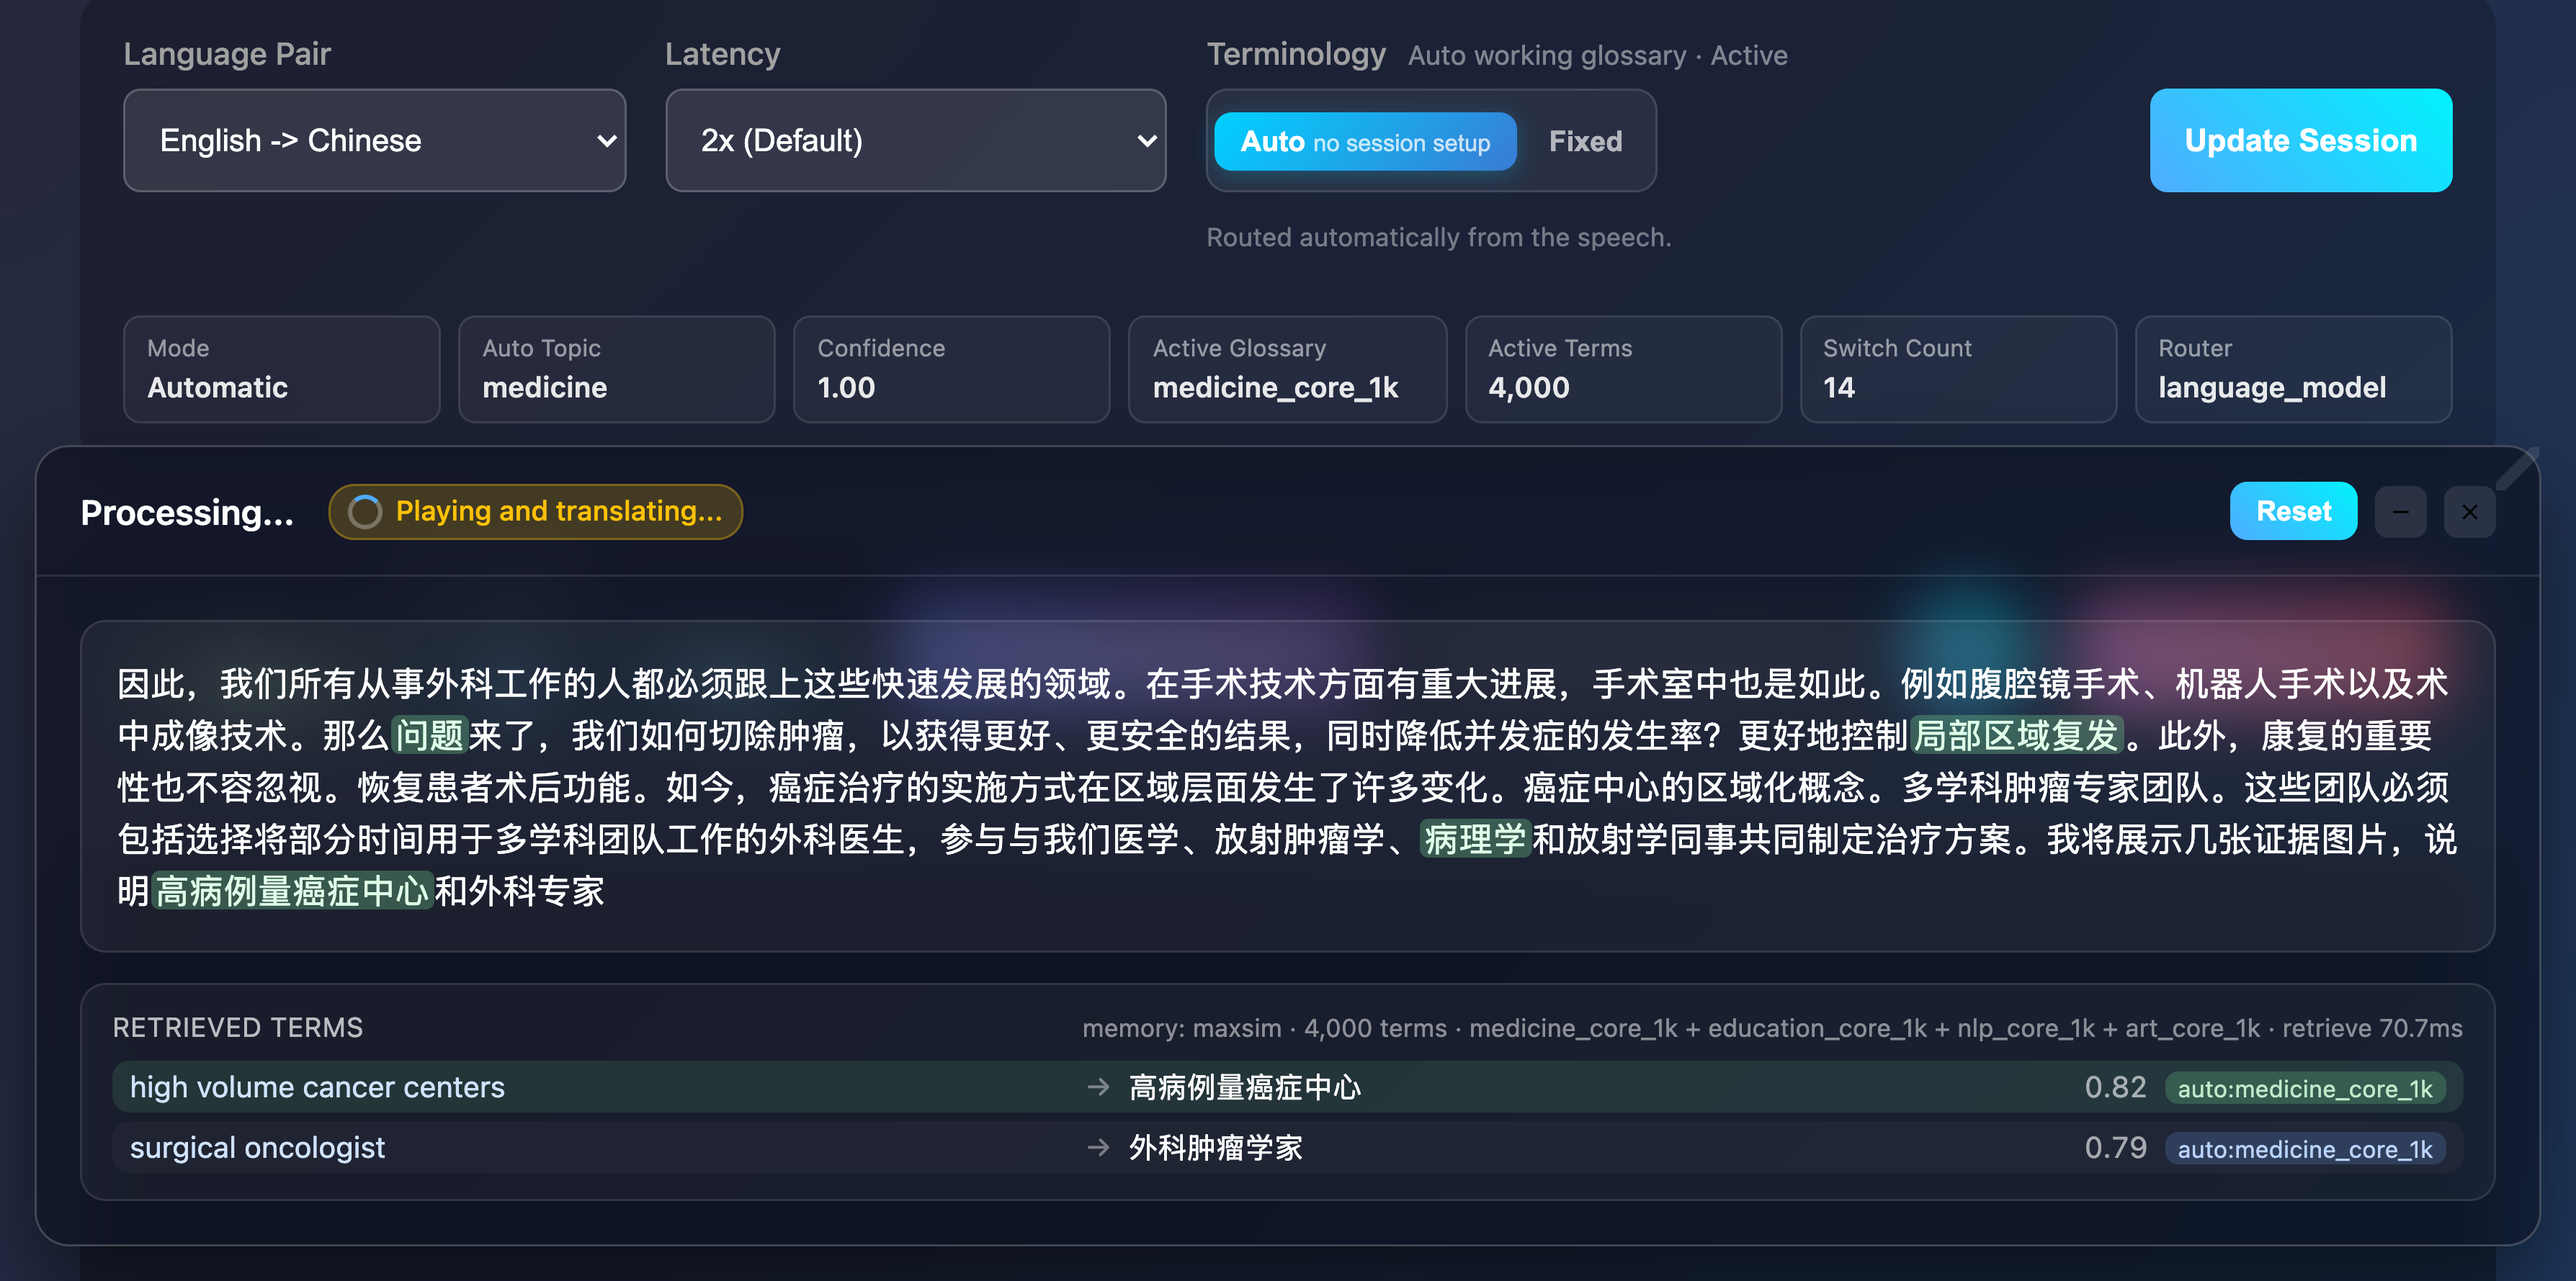
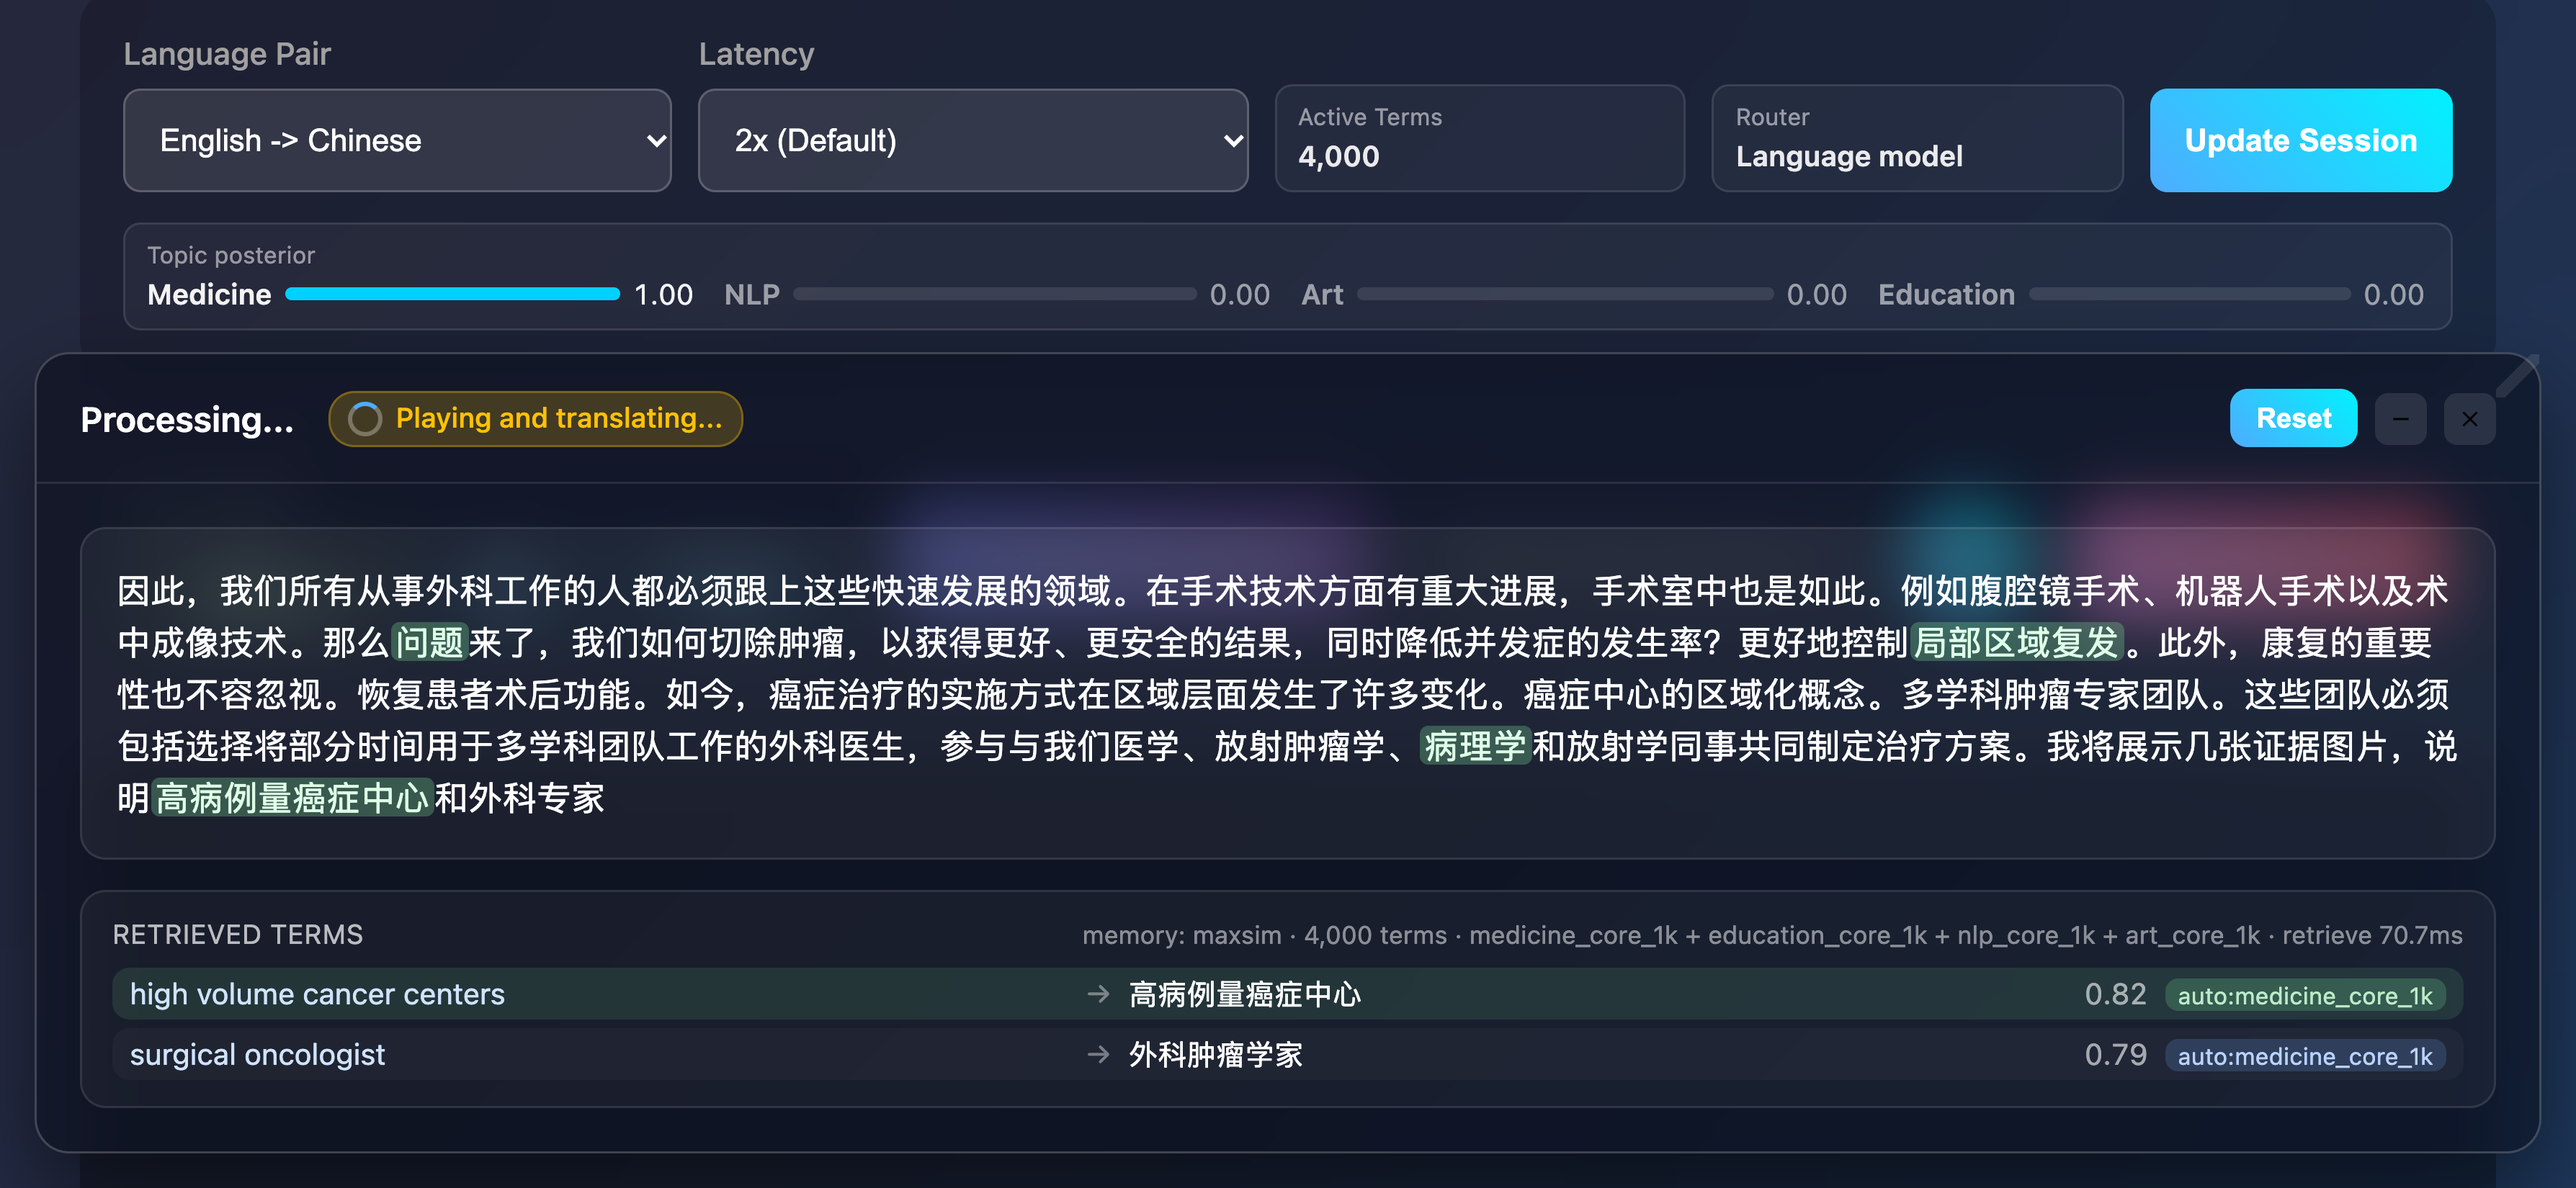
Show the active slices with their posterior in the interface figure
Figure 2 is re-rendered from the new status row, which lists the four
active slices with their posterior replayed on the recorded
translations; Section 5 follows the automatic-only interface.
latex/make_arxiv.sh builds a comment-free arXiv package with the .bbl
and checks its page count.

diff --git a/latex/sections/5_demo_interface.tex b/latex/sections/5_demo_interface.tex
@@ -10,8 +10,8 @@ selector.
 
 \paragraph{Walkthrough.}
 A session follows topic changes with no manual control. Partial translations
-appear immediately; once context accumulates, the status row at the top of the
-interface names the slice with the highest posterior probability, and the pairs
+appear immediately; once context accumulates, the status row at the top of the interface lists the active slices with their
+posterior probabilities, and the pairs
 retrieved for each output appear in the evidence panel. After a topic change, outgoing and
 incoming slices briefly coexist in the working set.
 
@@ -19,9 +19,9 @@ incoming slices briefly coexist in the working set.
   \centering
   \includegraphics[width=0.64\textwidth]{ui_evidence_panel.png}
   \caption{The English-to-Chinese interface replaying the ACL-ESO stream during an oncology lecture, about 19 minutes into
-  the stream. The status row shows the medicine
-  slice on top of the router's posterior and 4,000 searchable terms; retrieved
-  terms are highlighted in the translation, and the bottom panel lists the
+  the stream. The status row lists the four active slices with their posterior probabilities,
+  replayed on the recorded translations; retrieved terms are highlighted in the
+  translation, and the bottom panel lists the
   latest retrieved pairs with scores and source slices.}
   \label{fig:ui}
 \end{figure*}
@@ -30,8 +30,8 @@ incoming slices briefly coexist in the working set.
 Highlighting and an evidence panel make terminology behavior transparent. As
 Figure~\ref{fig:ui} shows, the
 interface highlights retrieved terms inside the translation and lists their
-source--target mappings; the status row shows the top slice, its posterior
-probability, and the active term count, and the evidence-panel header names the active slices and
+source--target mappings; the status row lists the active slices with their posterior probabilities
+next to the active term count, and the evidence-panel header names the active slices and
 the retrieval latency. A viewer can thus see whether a mistranslated term was missed by retrieval,
 came from an irrelevant slice, or was retrieved but ignored by the decoder.
 
@@ -39,8 +39,7 @@ came from an irrelevant slice, or was retrieved but ignored by the decoder.
 Adding a topic takes one glossary file and no restart: registration validates
 the pairs, builds the index, and writes the manifest entry, and an LLM can
 write the prototype from the glossary, as Appendix~\ref{app:router} evaluates.
-Running sessions keep their catalog snapshot, and fixed-glossary presets remain
-available for expert users.
+Running sessions keep their catalog snapshot.
 
 \paragraph{Availability.}
 The MIT-licensed implementation, a one-command launcher, and a screencast are

diff --git a/docs/decisions.md b/docs/decisions.md
@@ -28,3 +28,4 @@
 - 2026-11-20 PT｜路由打分改为后台进行｜按 luojiaxuan 的选择修掉 LLM 路由的并发瓶颈：实验仓库 `dce1e90` 起，块的检索只读最新的路由分数，不再等打分；一个后台 worker 把所有到期会话合成一批打分，新译文一到就唤醒它，正序与倒序选项放进同一批前向（分数不变）｜同步打分时三张 A6000 上 16 路并发的 LLM 路由块延迟中位数 3.38 秒，80% 的块超过 1.92 秒，相似度路由 0.81 秒；实时流里下一块要约 1.4 秒后才到，后台打分来得及，路由决定与同步版相同，只有喂得比实时快时才会晚一块，回放里每次更新都晚一块时十讲流覆盖从 99.0 变为 98.96｜撤回：`git revert dce1e90`，论文时延段改报同步版的 1、8、16 路数字与并发上限。
 - 2026-11-20 PT｜论文不提 run｜正文、表注、附录都不写 run 编号：表 1 与附录统计表统一以 AutoTerm-SST 为对照，Merged-100k、Merged-1M 去掉星标和“来自 run 1”的说明，删掉 Runs 段；相似度路由在 run 1、run 2 的重复配对从附录统计表删掉；各数字来自哪个 run 写进 `latex/README.md`｜luojiaxuan 认为写明不同 run 过于严谨、AI 味重，表里统一对比即可；跨 run 逐讲座配对成立的前提（同一音频顺序与切块）记在 README｜撤回：`git revert` 这次提交，恢复星标、Runs 段和附录里 run 1、run 2 那一块。
 - 2026-11-20 PT｜GPT 外审与易读性检查的取舍｜照改：表 3 改报并存档 90 块均值（`latency/single_session_means.json`）、“sentences without terms”改为按参考译文定义、InfiniSST 的 All 写明是不加权平均、位置偏好与证据权重两处说法收窄到算法实际做的、RealSI 写成 30 个讲座实例、图 1 路由框改为 LLM 路由加粘性滤波、两个评测流命名为 ACL-ESO 与 RealSI｜没跟：Holm 校正、“on par”改写、正文披露跨 run 与 1M 原表丢失（luojiaxuan 已定不提 run）、并发时延、ACL-ESO 流上 top-1 偏低（论文无此说法）；逐条理由见 `docs/reviews/2026-11-20-gpt-audit/triage.md`｜撤回：按 triage 表逐条 `git revert` 对应提交。
+- 2026-11-20 PT｜额度不足时的顺序｜Claude 周额度已用 87%（11-21 21:00 PT 重置），实现交给 Codex CLI；Opus 5.5 逐段改易读性推迟到重置之后，排版收尾（末行检查）和 arXiv 替换排在它后面，arXiv 只替换一次最终稿；重置前先完成状态行 UI、图 2 重渲染和 arXiv 源码包的准备｜Opus 改写要读全文、输出整份源码，一次就占剩余额度的大头；末行和 arXiv 都依赖改写后的版面｜撤回：额度允许时立即起 Opus 改写子代理，按同样顺序继续。

diff --git a/latex/README.md b/latex/README.md
@@ -1,6 +1,6 @@
 # AutoTerm-SST 论文（NAACL 2027 System Demonstrations）
 
-投稿截止 2026-12-04 AoE；正文 6 页，附录不超过 2 页，伦理声明与参考文献不限。`acl_latex.tex` 是入口，各节在 `sections/`。
+投稿截止 2026-12-04 AoE；正文 6 页，附录不超过 2 页，伦理声明与参考文献不限。`acl_latex.tex` 是入口，各节在 `sections/`；`bash latex/make_arxiv.sh <out.tar.gz>` 生成去掉注释、带 `.bbl` 的 arXiv 源码包并验证页数。
 
 ## 数字从哪来
 
@@ -16,7 +16,7 @@
 | 表 2 与图 3：RealSI 路由 | 2026-11-20，hyper01 两张 H200，三种顺序 | `docs/realsi_20261120/results/routing_coverage.json`；图由 `eval/streaming_sst/render_routing_states_svg.py` 生成 |
 | 表 3：处理速度 | 2026-11-20，Taurus 三张 A6000，单会话一场 ACL 讲座 | `docs/llm_router_20261120/latency/summary.json` 的 1 路一档 |
 | 附录路由诊断与回放表 | run 1 存下的译文，离线回放 | `docs/llm_router_20261120/README.md` 各节与同目录 JSON |
-| 图 2：界面截图 | 回放 run 3 的输出 | 本分支的 `scripts/render_ui_replay.py` |
+| 图 2：界面截图 | 回放 run 3 第 600 到 639 块的输出；状态行的后验由 `router_posterior_replay.py` 在 aries 一张 A6000 上按线上节奏在录下的译文上重放，前 660 块里首位 slice 与线上一致 87%，图中 40 块全部一致 | 实验仓库 `feat/status-row-top-slices`（[PR #2](https://github.com/luojiaxuan/autoterm-sst/pull/2)）的 `scripts/render_ui_replay.py`；后验在 `docs/llm_router_20261120/ui_posterior_replay.json` |
 
 ## 没进论文的
 
